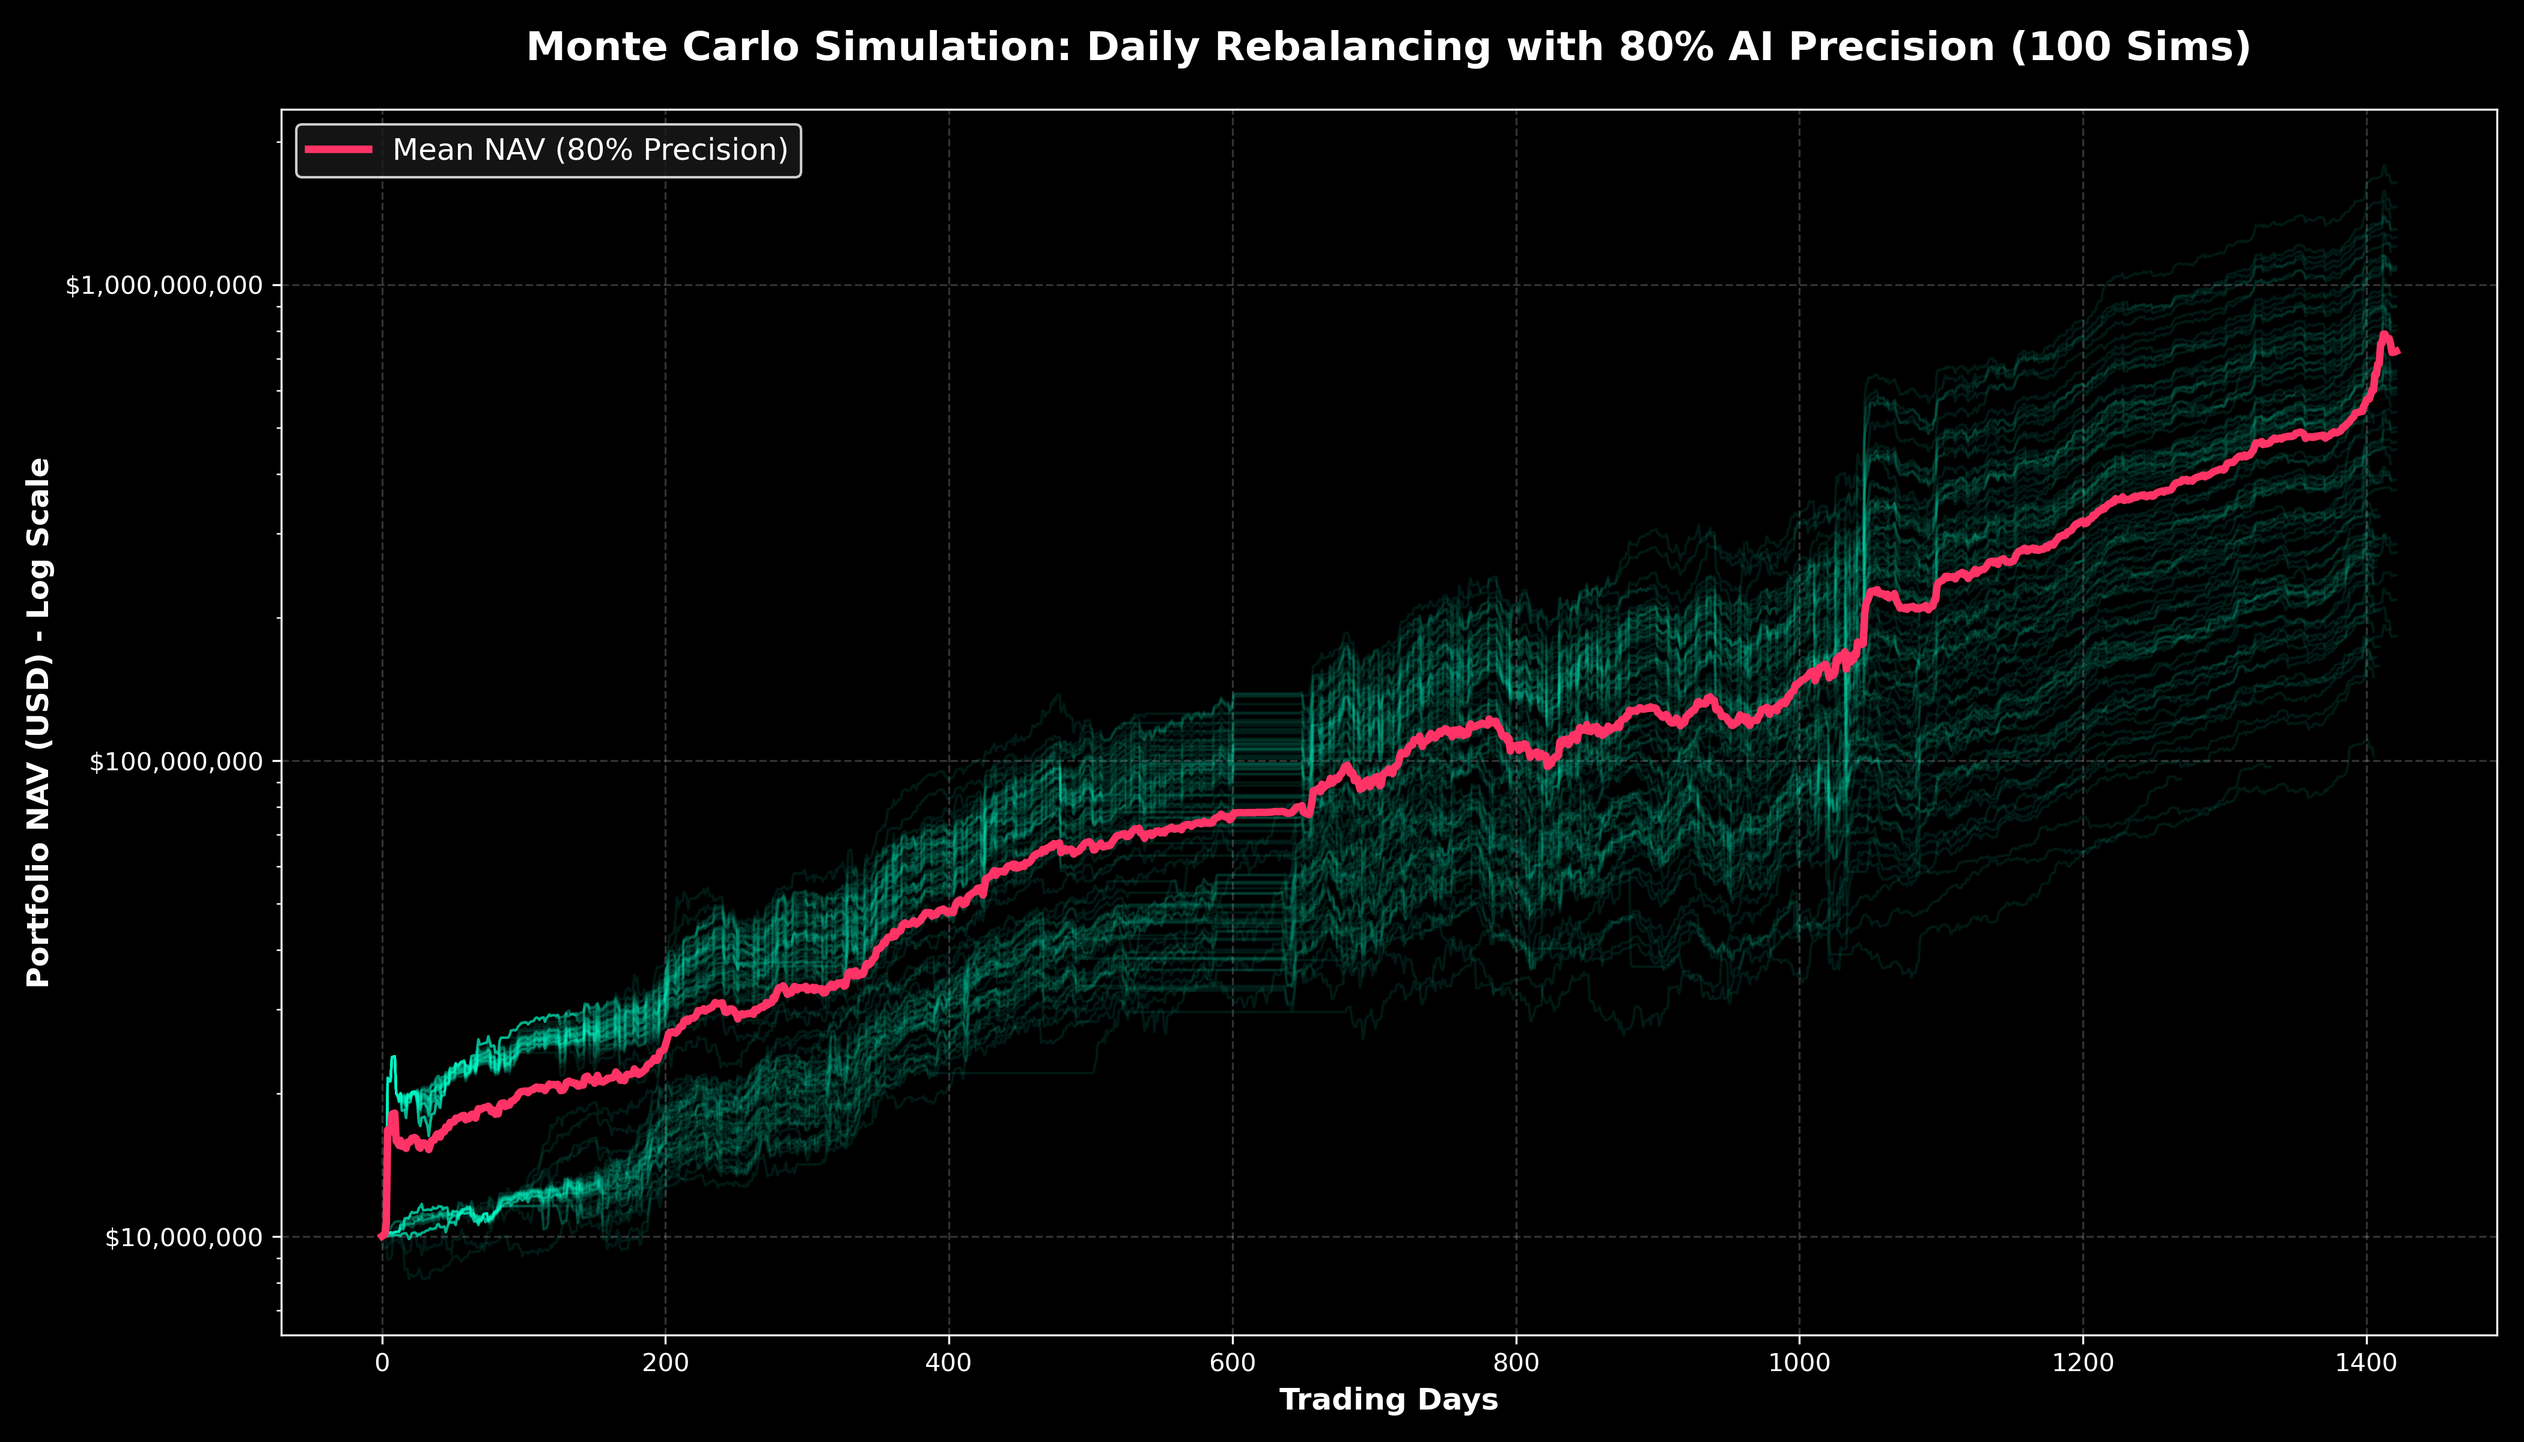
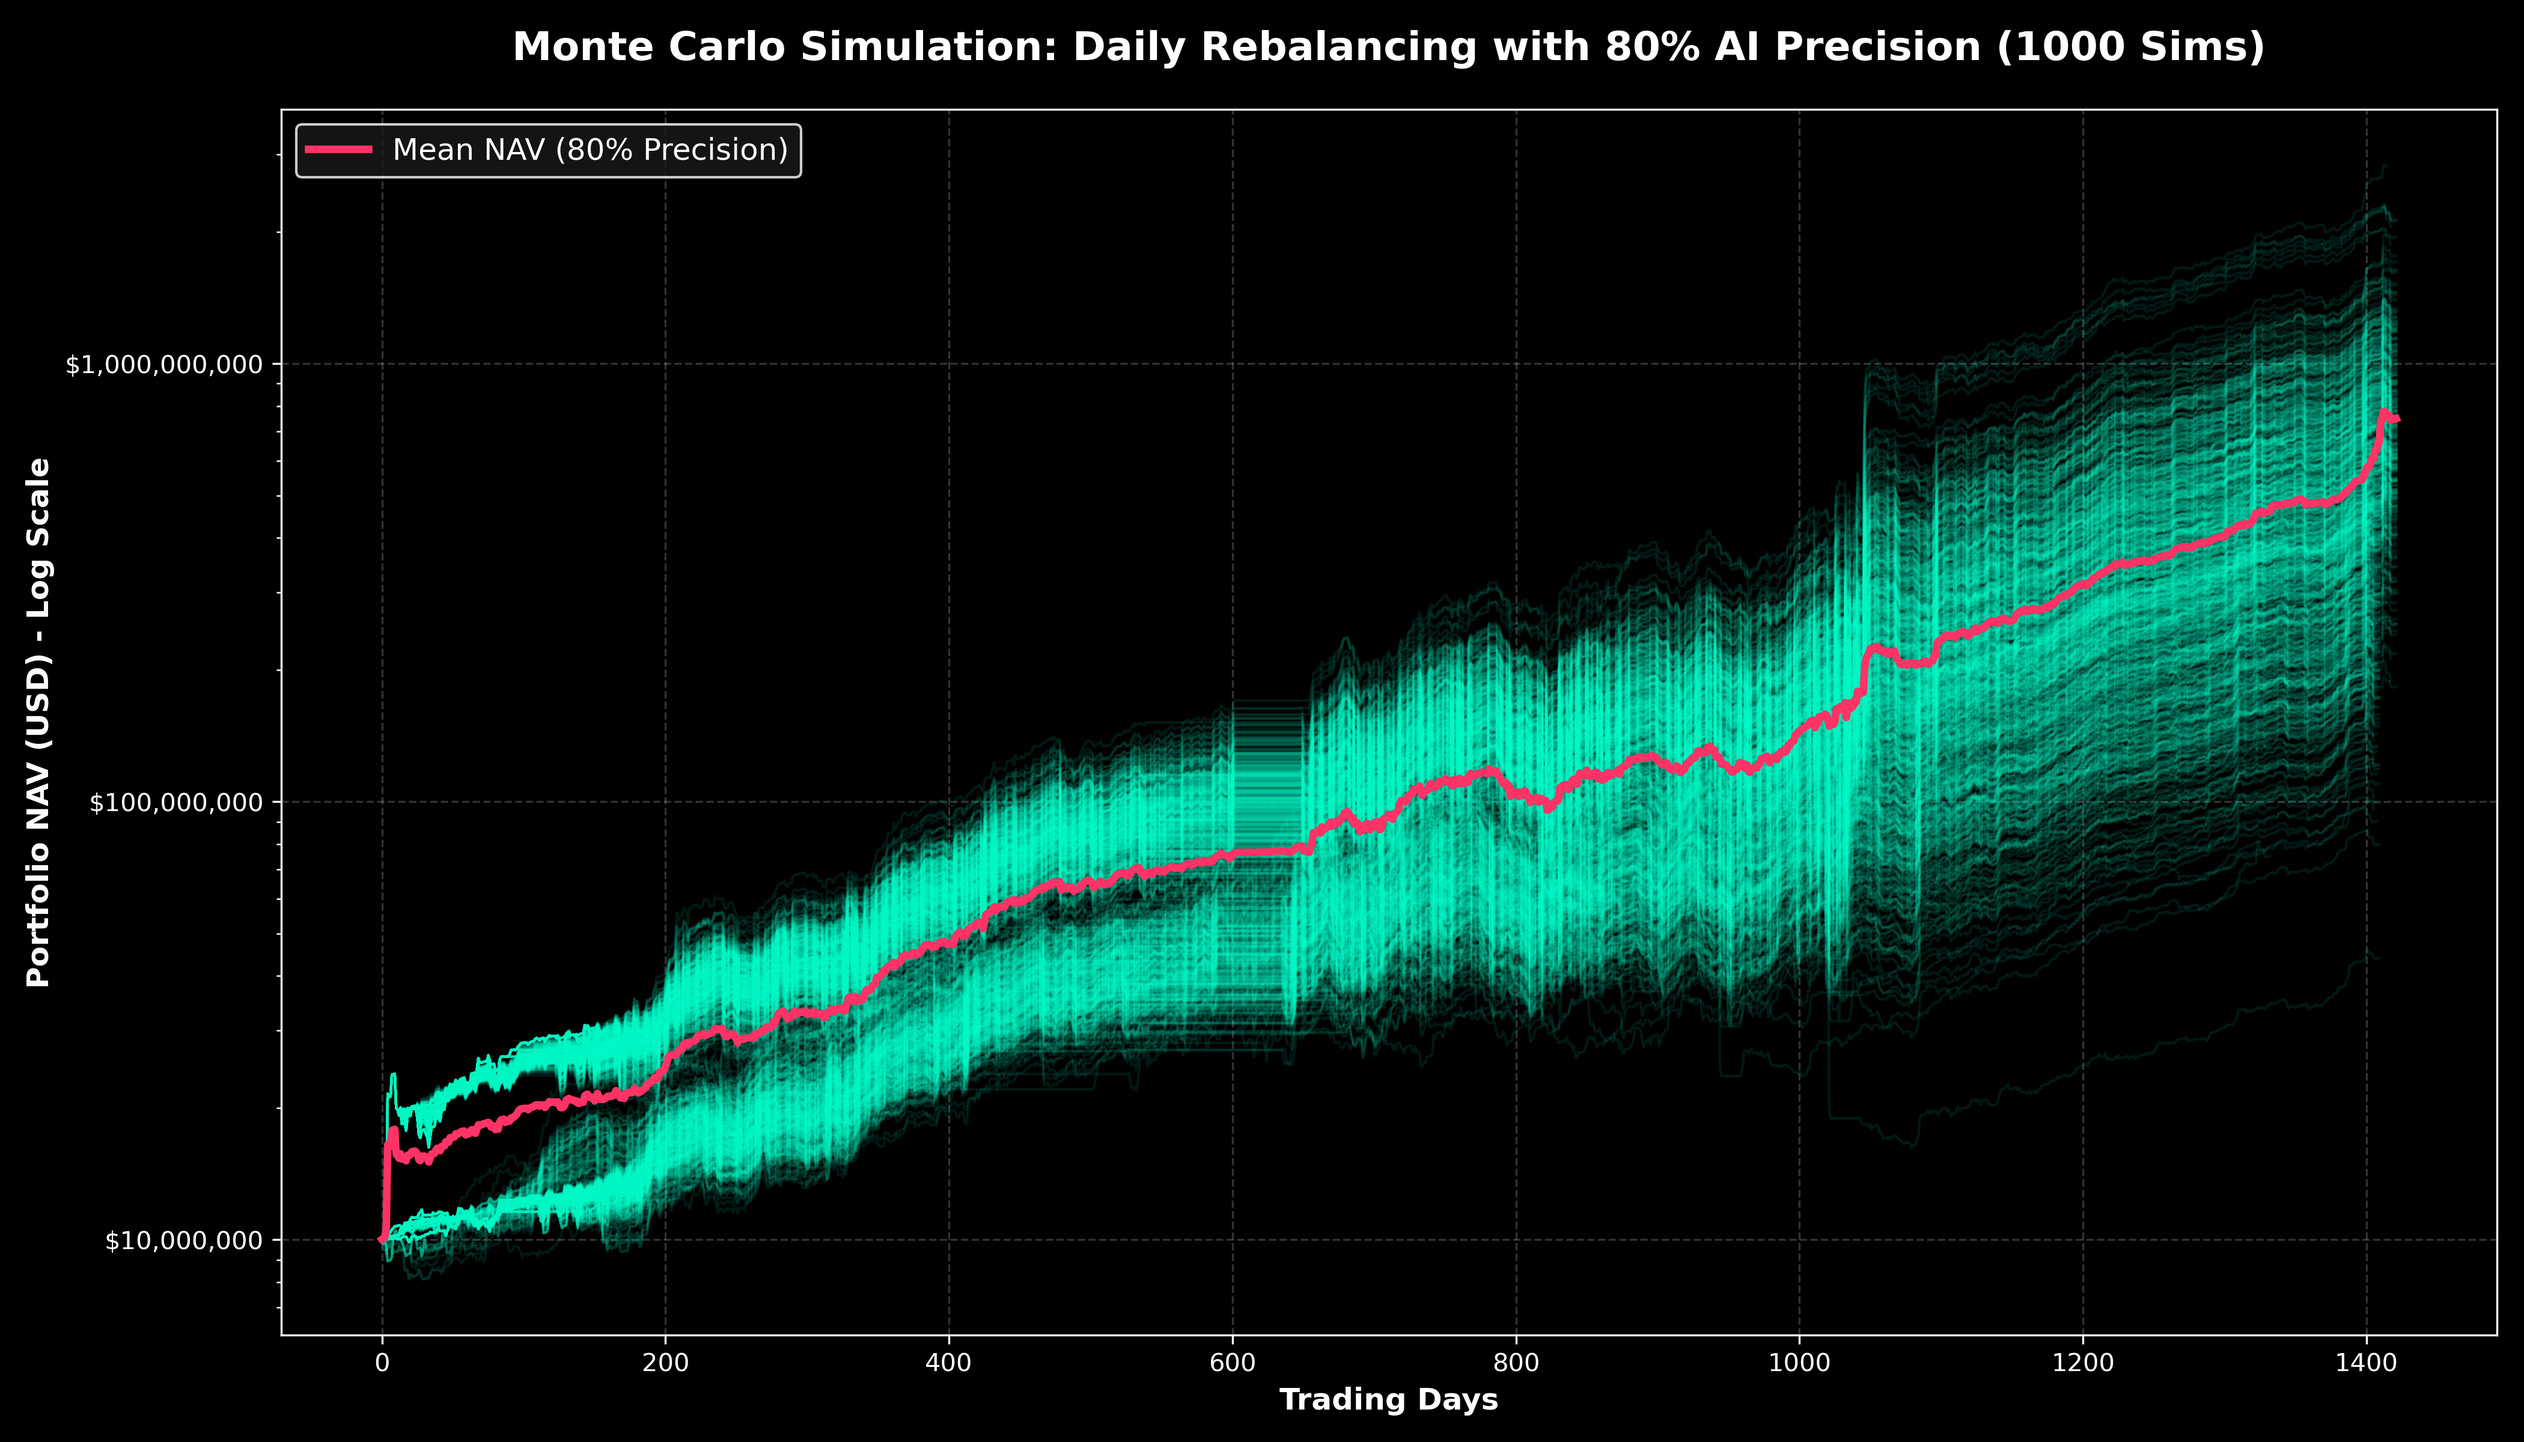
Increase Monte Carlo simulations from 100 to 1000 in V3

diff --git a/src/fpsl_mc_engine.py b/src/fpsl_mc_engine.py
@@ -168,7 +168,7 @@ if len(valid_successes) == 0 or len(valid_failures) == 0:
 
 # Monte Carlo Engine
 INITIAL_CAPITAL = 10000000.0
-NUM_SIMS = 100
+NUM_SIMS = 1000
 
 sim_nav_histories = []
 sim_cagrs = []
@@ -302,7 +302,7 @@ ax.set_ylabel('Portfolio NAV (USD) - Log Scale', fontsize=12, fontweight='bold',
 import matplotlib.ticker as ticker
 ax.yaxis.set_major_formatter(ticker.FuncFormatter(lambda y, pos: f'${y:,.0f}'))
 
-plt.title(f'Monte Carlo Simulation: Daily Rebalancing with 80% AI Precision (100 Sims)', fontsize=16, fontweight='bold', color='white', pad=20)
+plt.title(f'Monte Carlo Simulation: Daily Rebalancing with 80% AI Precision ({NUM_SIMS} Sims)', fontsize=16, fontweight='bold', color='white', pad=20)
 plt.xlabel('Trading Days', fontsize=12, fontweight='bold', color='white')
 plt.grid(True, alpha=0.2, linestyle='--')
 plt.legend(loc='upper left', fontsize=12, frameon=True, facecolor='#1a1a1a', edgecolor='white')
@@ -338,7 +338,7 @@ ax2.boxplot([success_lending_yield, failure_lending_yield], labels=['Successes (
 ax2.set_title('Lending Yield Distribution (60-day Rent)', color='white', fontweight='bold')
 ax2.set_ylabel('Yield (%)', color='white')
 
-plt.suptitle('Monte Carlo Per-Transaction Distribution (100 Sims)', fontsize=16, fontweight='bold', color='white')
+plt.suptitle(f'Monte Carlo Per-Transaction Distribution ({NUM_SIMS} Sims)', fontsize=16, fontweight='bold', color='white')
 plt.tight_layout()
 plt.savefig('../fpsl_mc_boxplots.png', dpi=300)
 

diff --git a/README.md b/README.md
@@ -14,7 +14,7 @@ However, rather than relying solely on the capital appreciation (the "gap up") o
 4. **The FPSL Kicker (The "Rent"):** During the 60-day holding period, these biotech stocks are heavily shorted by the broader market predicting failure. The fund lends its shares out to these short-sellers, collecting massive borrow fees (typically ranging from 40% to 120% APR).
 5. **Exit:** The position is exited exactly 2 days after the catalyst date to capture the gap-up return and close the trade.
 
-A **Monte Carlo Simulation (100 Iterations)** was performed assuming the AI model has an **80% Precision Rate** (80% of taken trades are actual clinical successes, 20% are actual failures). The daily-rebalancing model (focusing solely on the high-frequency 2014-2018 window) compounded an initial capital of $10M into a **Mean Final NAV of $724.84 Million** (a **173.70% Mean CAGR**).
+A **Monte Carlo Simulation (1000 Iterations)** was performed assuming the AI model has an **80% Precision Rate** (80% of taken trades are actual clinical successes, 20% are actual failures). The daily-rebalancing model (focusing solely on the high-frequency 2014-2018 window) compounded an initial capital of $10M into a **Mean Final NAV of $748.19 Million** (a **175.02% Mean CAGR**).
 
 ![Fund Performance Curve](fpsl_mc_plot.png)
 
@@ -24,7 +24,7 @@ In reality, many "successful" Phase 2/3 trials result in the stock trading down 
 ![Per-Trade Statistics](fpsl_mc_boxplots.png)
 
 ### Representative Simulation (Per-Trade Breakdown)
-To visualize exactly how the yield cushions the capital losses in a single sequential timeline, the script isolates the specific simulation whose final NAV closest matches the $724.84 Million Mean.
+To visualize exactly how the yield cushions the capital losses in a single sequential timeline, the script isolates the specific simulation whose final NAV closest matches the $748.19 Million Mean.
 
 ![Representative MC Simulation Trades](fpsl_mc_representative_trades.png)
 
